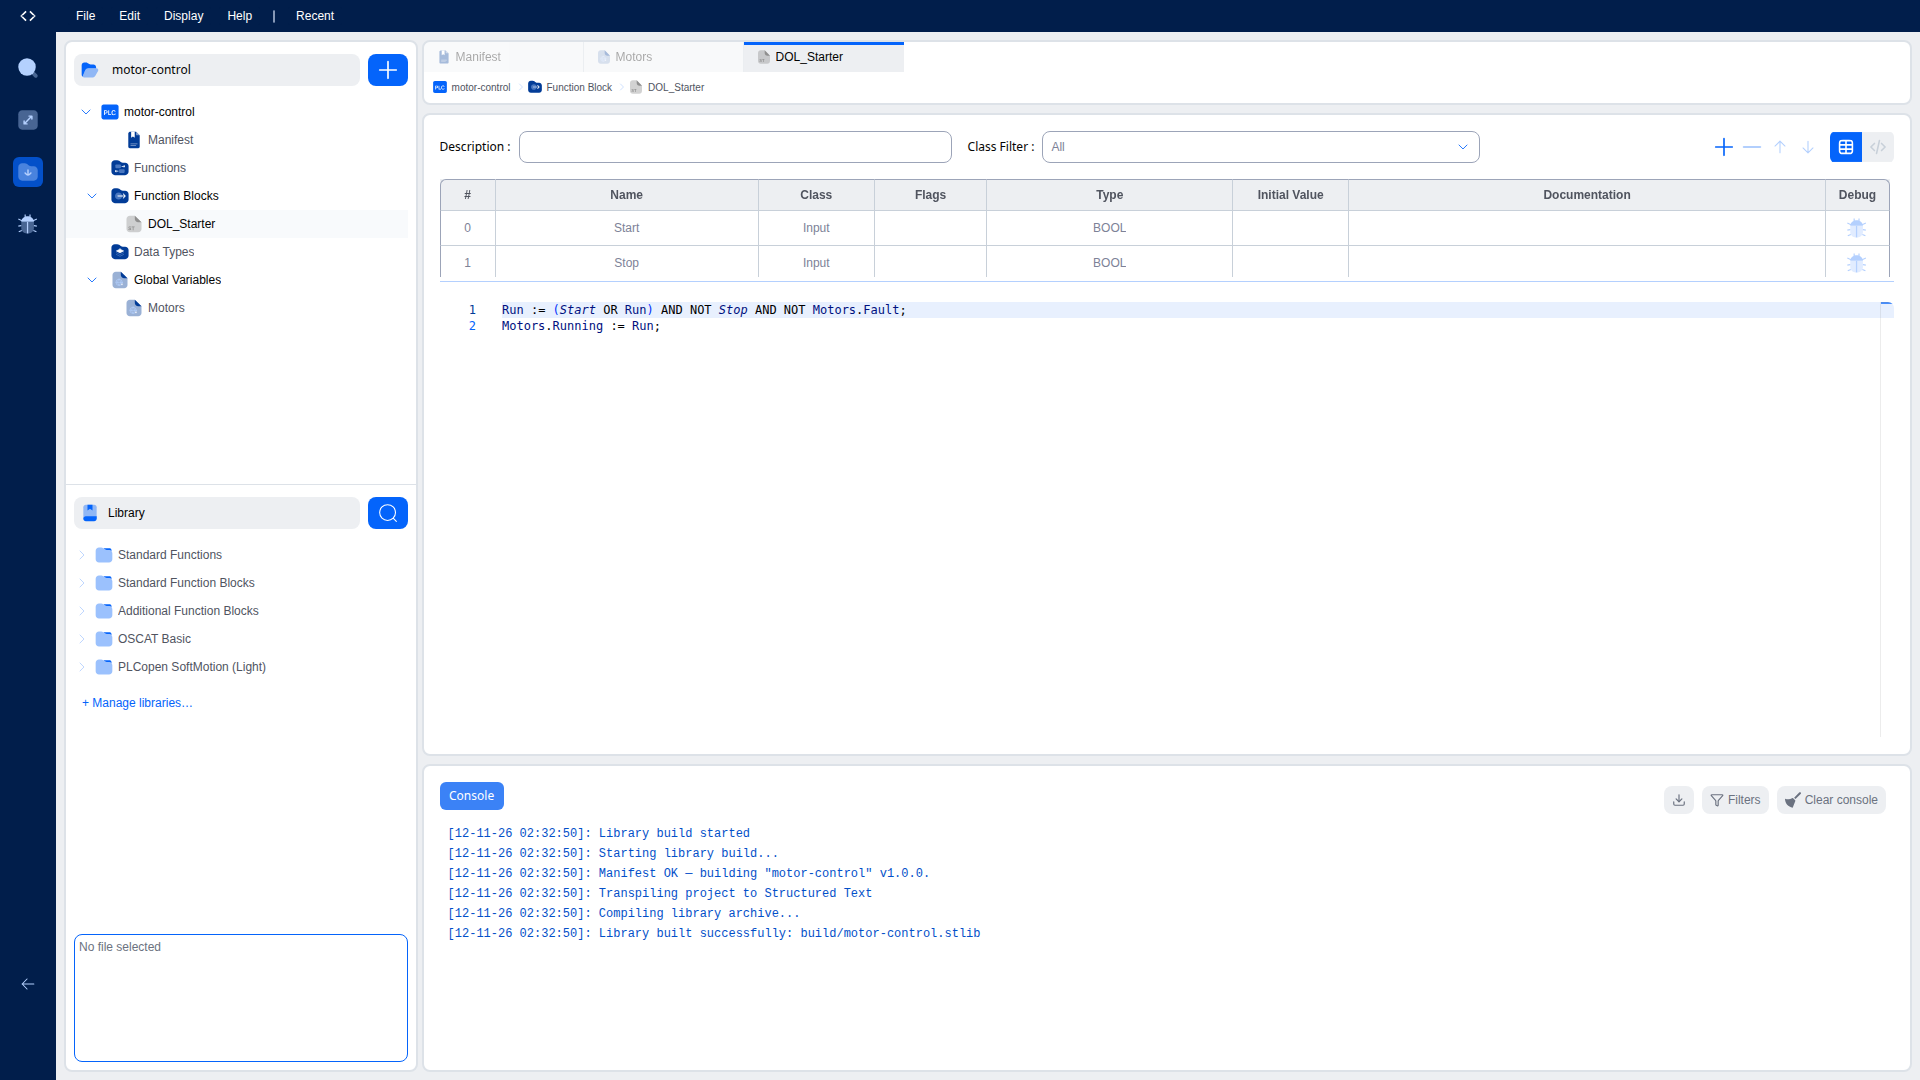
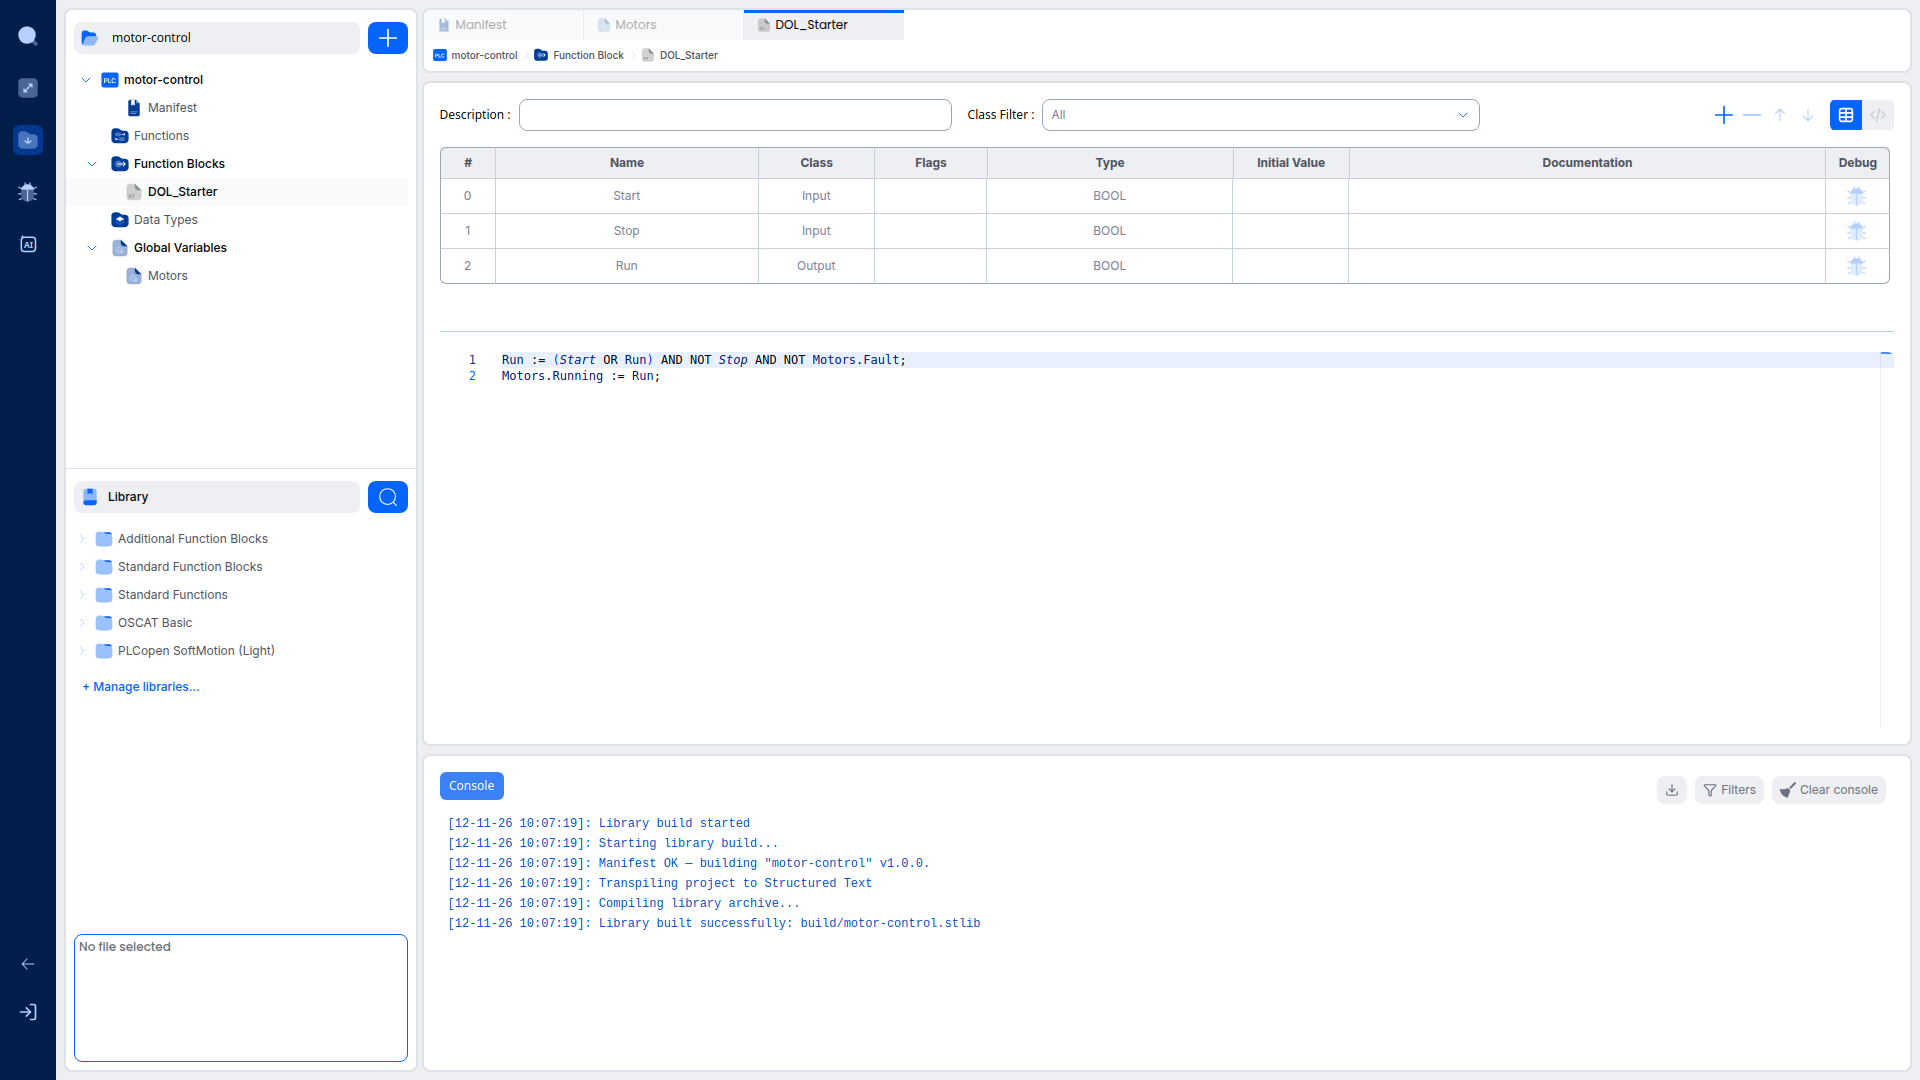
docs(libraries): declare Run as an output of the DOL_Starter example and retake its build screenshot

diff --git a/docs/openplc-editor/library-manager/creating-a-library.md b/docs/openplc-editor/library-manager/creating-a-library.md
@@ -129,7 +129,7 @@ A library can also ship global variables. Create a **Global Variable List** from
 
 ![A library project with the Motors list open under Global Variables. The list has three members: Running and Fault of type BOOL, and SpeedSetpoint of type INT with initial value 1500](images/library-global-variable-list.png)
 
-The library's own blocks reach a member with the qualified name, with nothing to declare:
+The library's own blocks reach a member with the qualified name, with nothing to declare for the list. The block's own variables are still declared in its variable table as usual. In this example, the **DOL_Starter** function block has two BOOL inputs, **Start** and **Stop**, and one BOOL output, **Run**:
 
 ```iecst
 Run := (Start OR Run) AND NOT Stop AND NOT Motors.Fault;
@@ -172,7 +172,7 @@ The compiled archive is also saved inside the project under `build/demo-utils-li
 
 A library whose blocks use its global variables builds the same way. The Console ends with the same success line:
 
-![The DOL_Starter function block open in the motor-control library. Its body reads Motors.Fault and writes Motors.Running, and the Console below ends with "Library built successfully: build/motor-control.stlib"](images/library-build-with-globals.png)
+![The DOL_Starter function block open in the motor-control library. Its variable table declares Start and Stop as BOOL inputs and Run as a BOOL output, its body reads Motors.Fault and writes Motors.Running, and the Console below ends with "Library built successfully: build/motor-control.stlib"](images/library-build-with-globals.png)
 
 ### When the build is refused
 
